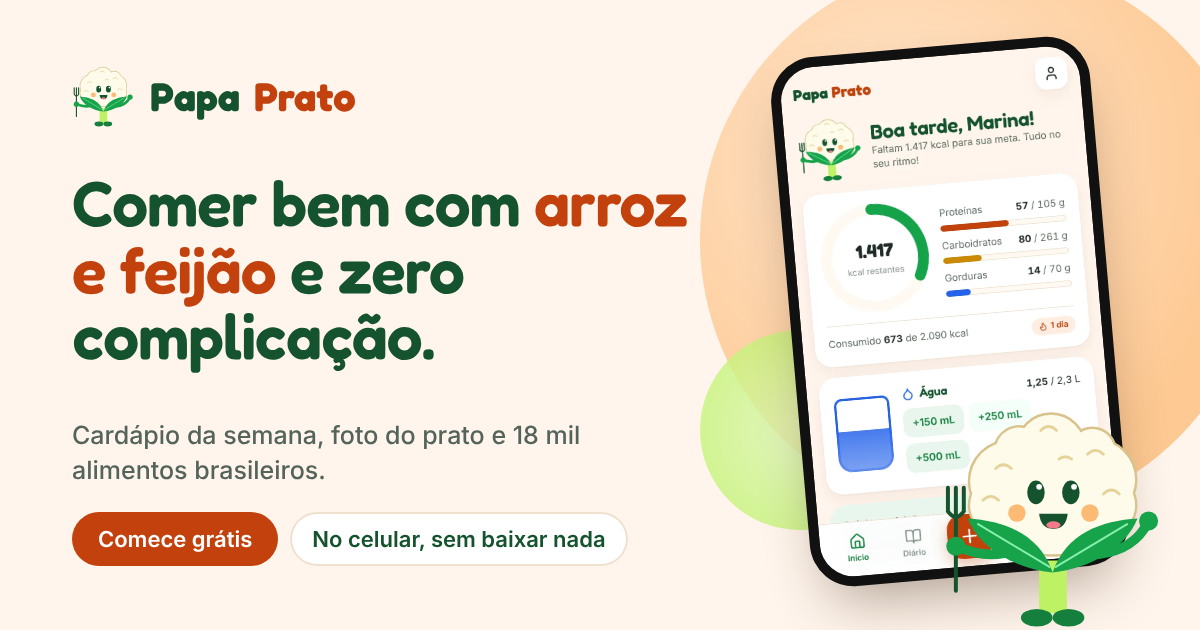
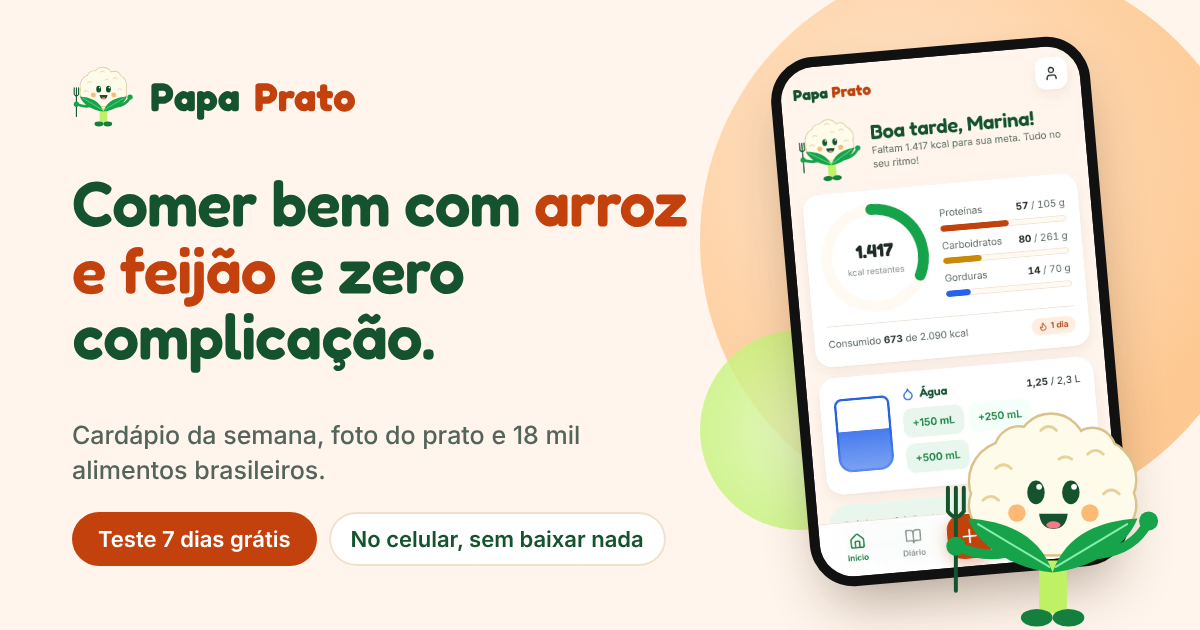
Webhook do Asaas, planos com preço editável e site sem plano grátis
- api/asaas-webhook: confere o token do Asaas e grava cada evento no banco (sem duplicar)
- Tabela planos (mensal, trimestral, anual) com histórico; só admin altera
- Painel: nova aba "Planos e preços" com edição, teste grátis e restauração de versões
- Site: preços lidos do banco, plano grátis removido, teste de 7 dias; banner refeito

Claude-Session: https://claude.ai/code/session_016xu6QakBDmg5KH1jUNaet3

Changed region(s): [[0.0617, 0.8143, 0.555, 0.9048]]

diff --git a/index.html b/index.html
@@ -4,20 +4,20 @@
 <meta charset="utf-8" />
 <meta name="viewport" content="width=device-width, initial-scale=1, viewport-fit=cover" />
 <title>Papa Prato · Comer bem com comida de verdade</title>
-<meta name="description" content="Cardápio da semana com a comida que você ama, registro por busca, foto ou código de barras e um mascote que comemora com você. Grátis, direto no celular." />
+<meta name="description" content="Cardápio da semana com a comida que você ama, registro por busca, foto ou código de barras e um mascote que comemora com você. Teste 7 dias grátis, direto no celular." />
 <meta property="og:type" content="website" />
 <meta property="og:locale" content="pt_BR" />
 <meta property="og:site_name" content="Papa Prato" />
 <meta property="og:url" content="https://papa-prato.vercel.app/" />
 <meta property="og:title" content="Papa Prato · Comer bem com comida de verdade" />
-<meta property="og:description" content="Cardápio da semana com a comida que você ama, registro por foto ou código de barras e 18 mil alimentos brasileiros. Grátis, direto no celular." />
+<meta property="og:description" content="Cardápio da semana com a comida que você ama, registro por foto ou código de barras e 18 mil alimentos brasileiros. Teste 7 dias grátis, direto no celular." />
 <meta property="og:image" content="https://papa-prato.vercel.app/og.png" />
 <meta property="og:image:width" content="1200" />
 <meta property="og:image:height" content="630" />
 <meta property="og:image:alt" content="Papa Prato: comer bem com arroz e feijão e zero complicação" />
 <meta name="twitter:card" content="summary_large_image" />
 <meta name="twitter:title" content="Papa Prato · Comer bem com comida de verdade" />
-<meta name="twitter:description" content="Cardápio da semana, foto do prato e 18 mil alimentos brasileiros. Grátis." />
+<meta name="twitter:description" content="Cardápio da semana, foto do prato e 18 mil alimentos brasileiros. Teste 7 dias grátis." />
 <meta name="twitter:image" content="https://papa-prato.vercel.app/og.png" />
 <link rel="canonical" href="https://papa-prato.vercel.app/" />
 <link rel="icon" href="/favicon.ico" sizes="48x48" />
@@ -270,6 +270,15 @@ body::before { content: ""; position: fixed; inset: 0 0 auto; height: env(safe-a
 .plano li { display: flex; gap: 10px; }
 .plano.gratis li::before { content: '✓'; color: var(--broto); font-weight: 700; }
 .plano.plus li::before { content: '✦'; color: var(--barro); }
+.opcoes { display: grid; gap: 10px; }
+.opcao { display: grid; grid-template-columns: 1fr auto; align-items: center; gap: 2px 12px; background: #fff; border-radius: 20px; padding: 14px 18px; box-shadow: inset 0 0 0 2px var(--linha); }
+.opcao.destaque { box-shadow: inset 0 0 0 2px var(--barro); }
+.opcao b { font: 600 19px/1.2 var(--f-titulo); color: var(--horta); display: flex; align-items: center; gap: 8px; flex-wrap: wrap; }
+.opcao .valor { font: 600 24px/1 var(--f-titulo); color: var(--horta); text-align: right; }
+.opcao small { color: var(--tinta-2); font-size: 14px; }
+.opcao small.dir { text-align: right; }
+.opcao .selo { font-size: 10px; padding: 5px 8px; white-space: nowrap; }
+@media (max-width: 560px) { .opcao { padding: 14px 16px; } .opcao small { grid-column: 1 / -1; } .opcao small.dir { order: 3; text-align: left; color: var(--barro); font-weight: 600; } .opcao small:not(.dir) { order: 4; } }
 .selo { font: 600 12px/1 var(--f-texto); letter-spacing: .08em; text-transform: uppercase; padding: 7px 11px; border-radius: 999px; background: var(--barro); color: #fff; }
 @media (max-width: 860px) { .planos .grade { grid-template-columns: 1fr; } }
 
@@ -364,7 +373,7 @@ footer a { color: var(--broto); }
     <nav class="menu" aria-label="Seções">
       <a href="#recursos">Recursos</a><a href="#papa">O mascote</a><a href="#como">Como funciona</a><a href="#planos">Planos</a><a href="#duvidas">Dúvidas</a>
     </nav>
-    <a class="btn" href="/app/">Começar grátis</a>
+    <a class="btn" href="/app/">Testar grátis</a>
   </div>
 </header>
 
@@ -376,10 +385,10 @@ footer a { color: var(--broto); }
         <h1 class="entra" style="--atraso:.08s">Comer bem com <em>arroz e feijão<svg viewBox="0 0 300 20" preserveAspectRatio="none" aria-hidden="true"><path d="M4 14C60 4 140 2 296 10" stroke="#FDBA74" stroke-width="9" stroke-linecap="round" fill="none"/></svg></em> e zero complicação.</h1>
         <p class="sub entra" style="--atraso:.16s">O Papa Prato monta o seu cardápio com a comida que você já ama, registra cada refeição em segundos e comemora cada passo com você. Sem dieta de revista e sem culpa.</p>
         <div class="acoes entra" style="--atraso:.24s">
-          <a class="btn" href="/app/">Montar meu cardápio grátis <svg width="20" height="20" viewBox="0 0 20 20" aria-hidden="true"><path d="M4 10h11m-4-5 5 5-5 5" stroke="currentColor" stroke-width="2.2" fill="none" stroke-linecap="round" stroke-linejoin="round"/></svg></a>
+          <a class="btn" href="/app/">Montar meu cardápio <svg width="20" height="20" viewBox="0 0 20 20" aria-hidden="true"><path d="M4 10h11m-4-5 5 5-5 5" stroke="currentColor" stroke-width="2.2" fill="none" stroke-linecap="round" stroke-linejoin="round"/></svg></a>
           <a class="btn claro" href="#recursos">Ver o app por dentro</a>
         </div>
-        <p class="nota entra" style="--atraso:.32s"><span>Grátis para começar</span><span>Sem cartão</span><span>Direto no celular</span></p>
+        <p class="nota entra" style="--atraso:.32s"><span>7 dias grátis</span><span>Cancele quando quiser</span><span>Direto no celular</span></p>
       </div>
       <div class="palco" id="palco" aria-hidden="true">
         <div class="bolha a"></div><div class="bolha b"></div>
@@ -549,23 +558,24 @@ footer a { color: var(--broto); }
 
   <section class="planos" id="planos">
     <div class="cont">
-      <div class="secao-titulo"><p class="olho revela">Planos</p><h2 class="revela">Comece hoje, sem pagar nada.</h2></div>
+      <div class="secao-titulo"><p class="olho revela">Planos</p><h2 class="revela">Tudo incluído. Você só escolhe o prazo.</h2></div>
       <div class="grade">
         <div class="plano gratis revela">
-          <h3>Papa Prato Grátis <span class="selo">Disponível</span></h3>
-          <p class="preco">R$ 0 <small>para sempre</small></p>
+          <h3>Papa Prato completo <span class="selo" id="selo-teste">7 dias grátis</span></h3>
+          <p style="opacity:.85">Qualquer plano libera o app inteiro, sem recurso escondido.</p>
           <ul>
-            <li>Cardápio da semana personalizado</li><li>Busca em 18 mil alimentos brasileiros</li><li>Foto do prato com IA e código de barras</li><li>Lista de compras automática</li><li>Conquistas, água e diário completo</li><li>Sincronização entre aparelhos</li>
+            <li>Cardápio da semana personalizado</li><li>Busca em 18 mil alimentos brasileiros</li><li>Foto do prato com IA e código de barras</li><li>Lista de compras automática</li><li>Conquistas, água e diário completo</li><li>Sincronização entre aparelhos</li><li>Novidades chegam para você sem custo extra</li>
           </ul>
-          <a class="btn verde" href="/app/" style="align-self:flex-start;margin-top:8px">Criar minha conta grátis</a>
         </div>
         <div class="plano plus revela" style="--atraso:.1s">
-          <h3>Papa Prato Plus <span class="selo" style="background:var(--horta)">Em breve</span></h3>
-          <p style="color:var(--tinta-2)">Para quem quer ir além, com acompanhamento de perto.</p>
-          <ul>
-            <li>Acompanhamento com nutricionista</li><li>Conversa com o Papa por IA, a qualquer hora</li><li>Programas temáticos e cardápios especiais</li><li>Relatórios de evolução</li>
-          </ul>
-          <p style="font-size:14px;color:var(--tinta-2);margin-top:auto">Crie sua conta grátis e você fica sabendo primeiro quando o Plus chegar.</p>
+          <h3>Escolha seu plano</h3>
+          <div class="opcoes" id="opcoes-plus">
+            <div class="opcao"><b>Mensal</b><span class="valor">R$&nbsp;24,90</span><small>Flexível: cancele quando quiser.</small><small class="dir">por mês</small></div>
+            <div class="opcao"><b>Trimestral</b><span class="valor">R$&nbsp;64,90</span><small>Três meses para criar o hábito.</small><small class="dir">R$&nbsp;21,63/mês · 13% off</small></div>
+            <div class="opcao destaque"><b>Anual <span class="selo">Mais vantajoso</span></b><span class="valor">R$&nbsp;199,90</span><small>O melhor preço: menos de R$ 17 por mês.</small><small class="dir">R$&nbsp;16,66/mês · 33% off</small></div>
+          </div>
+          <a class="btn" href="/app/" style="align-self:flex-start" id="cta-teste">Testar 7 dias grátis</a>
+          <p style="font-size:14px;color:var(--tinta-2);margin-top:auto" id="teste-plus">Teste por 7 dias sem pagar nada. Se não gostar, cancele antes e nada é cobrado.</p>
         </div>
       </div>
     </div>
@@ -575,7 +585,7 @@ footer a { color: var(--broto); }
     <div class="cont grade">
       <div><p class="olho revela">Dúvidas</p><h2 class="revela" style="margin-top:16px;font-size:clamp(34px,4vw,50px)">Perguntas que todo mundo faz.</h2></div>
       <div class="revela">
-        <details><summary>É grátis mesmo?</summary><div class="resp">Sim. Cardápio, busca, foto do prato, código de barras, lista de compras e conquistas estão no plano grátis. Não pedimos cartão.</div></details>
+        <details><summary>Quanto custa?</summary><div class="resp">A partir de <span id="faq-preco">R$ 24,90</span> por mês, ou menos no trimestral e no anual. Todos os planos incluem o app inteiro, e você testa 7 dias grátis antes de pagar. Dá para pagar com Pix, cartão ou boleto e cancelar quando quiser.</div></details>
         <details><summary>Preciso baixar alguma coisa?</summary><div class="resp">Não. O Papa Prato abre no navegador do celular. Se quiser, toque em "Adicionar à tela de início" e ele vira um app como os outros, que funciona até sem internet.</div></details>
         <details><summary>Substitui o nutricionista?</summary><div class="resp">Não, e nem quer. As metas e os cardápios são estimativas educativas, calculadas com métodos reconhecidos. Para um plano individual, procure um(a) nutricionista; o Papa Prato é um ótimo parceiro para o dia a dia entre as consultas.</div></details>
         <details><summary>A foto do prato acerta tudo?</summary><div class="resp">Ela acerta muito, mas pode errar. Por isso você sempre confere os alimentos e as quantidades antes de salvar. E as calorias vêm das tabelas oficiais (TACO e TBCA), não da IA.</div></details>
@@ -590,8 +600,8 @@ footer a { color: var(--broto); }
       <div class="caixa revela">
         <div>
           <h2>Seu próximo prato já pode ser mais leve.</h2>
-          <p>Em 2 minutos o Papa conhece seus gostos e monta a sua semana. É grátis, é brasileiro e é do seu jeito.</p>
-          <a class="btn" href="/app/">Começar agora, é grátis <svg width="20" height="20" viewBox="0 0 20 20" aria-hidden="true"><path d="M4 10h11m-4-5 5 5-5 5" stroke="currentColor" stroke-width="2.2" fill="none" stroke-linecap="round" stroke-linejoin="round"/></svg></a>
+          <p>Em 2 minutos o Papa conhece seus gostos e monta a sua semana. Teste 7 dias grátis: é brasileiro e é do seu jeito.</p>
+          <a class="btn" href="/app/">Começar meu teste grátis <svg width="20" height="20" viewBox="0 0 20 20" aria-hidden="true"><path d="M4 10h11m-4-5 5 5-5 5" stroke="currentColor" stroke-width="2.2" fill="none" stroke-linecap="round" stroke-linejoin="round"/></svg></a>
         </div>
         <svg class="mascote-final" viewBox="0 0 290 290" aria-hidden="true"><use href="#papa"/></svg>
       </div>
@@ -695,6 +705,31 @@ footer a { color: var(--broto); }
 
   // Funciona offline e pode ser instalado como app
   if ('serviceWorker' in navigator && location.protocol === 'https:') navigator.serviceWorker.register('/sw.js').catch(function () {})
+
+  // Preços do Plus vêm do banco (a equipe muda no painel); sem internet, fica o texto já escrito acima.
+  var caixaPlanos = document.getElementById('opcoes-plus')
+  if (caixaPlanos && window.fetch) {
+    var CHAVE = 'sb_publishable_9JQqL2n-cCBqjDWHIhyuIw_xHHcmDmv'
+    fetch('https://crbydlwmtyxvzhiowpmb.supabase.co/rest/v1/planos?select=nome,preco,meses,teste_dias,descricao,destaque&ativo=eq.true&order=ordem', { headers: { apikey: CHAVE } })
+      .then(function (r) { return r.ok ? r.json() : null })
+      .then(function (lista) {
+        if (!lista || !lista.length) return
+        var brl = function (v) { return 'R$\u00a0' + Number(v).toFixed(2).replace('.', ',') }
+        var esc = function (t) { var d = document.createElement('div'); d.textContent = t; return d.innerHTML }
+        var mensal = lista.filter(function (p) { return p.meses === 1 })[0]
+        caixaPlanos.innerHTML = lista.map(function (p) {
+          var porMes = p.preco / p.meses, desc = mensal && p.meses > 1 ? Math.round((1 - porMes / mensal.preco) * 100) : 0
+          var dir = p.meses === 1 ? 'por mês' : brl(porMes) + '/mês' + (desc > 0 ? ' · ' + desc + '% off' : '')
+          return '<div class="opcao' + (p.destaque ? ' destaque' : '') + '"><b>' + esc(p.nome) + (p.destaque ? ' <span class="selo">Mais vantajoso</span>' : '') + '</b><span class="valor">' + brl(p.preco) + '</span><small>' + esc(p.descricao) + '</small><small class="dir">' + dir + '</small></div>'
+        }).join('')
+        var dias = Math.max.apply(null, lista.map(function (p) { return p.teste_dias }))
+        var m1 = document.getElementById('faq-preco')
+        if (m1 && mensal) m1.textContent = brl(mensal.preco).replace('\u00a0', ' ')
+        var t = function (id, txt) { var e = document.getElementById(id); if (e) e.textContent = txt }
+        if (dias > 0) { t('selo-teste', dias + ' dias grátis'); t('cta-teste', 'Testar ' + dias + ' dias grátis'); t('teste-plus', 'Teste por ' + dias + ' dias sem pagar nada. Se não gostar, cancele antes e nada é cobrado.') }
+        else { t('selo-teste', 'Tudo incluído'); t('cta-teste', 'Assinar o Papa Prato'); t('teste-plus', 'Cancele quando quiser, direto no app.') }
+      }).catch(function () {})
+  }
 
   // Só uma dúvida aberta por vez
   var ds = document.querySelectorAll('details')

diff --git a/src/admin/Planos.tsx b/src/admin/Planos.tsx
@@ -1,0 +1,96 @@
+import { useEffect, useState } from 'react'
+import { History, RefreshCw, Save } from 'lucide-react'
+import { avisar } from '../components/ui'
+import { supabase } from '../lib/supabase'
+import { usePapel } from '../lib/equipe'
+import { Cabecalho } from './Modulos'
+
+// Planos do Papa Prato Plus. O preço vale para novas assinaturas; quem já assina mantém o valor contratado no Asaas.
+// Só administradores mudam (o banco garante isso); o resto da equipe vê em modo leitura.
+
+export type Plano = { id: string; nome: string; preco: number; meses: number; teste_dias: number; descricao: string; destaque: boolean; ativo: boolean; ordem: number; versao?: number; atualizado_em?: string }
+type Versao = { id: number; versao: number; dados: Plano; em: string }
+
+export const reais = (v: number) => v.toLocaleString('pt-BR', { style: 'currency', currency: 'BRL' })
+const lerPreco = (t: string) => Number(t.replace(/[^\d,.]/g, '').replace(/\.(?=\d{3}\b)/g, '').replace(',', '.'))
+const quando = (d?: string) => d ? new Date(d).toLocaleString('pt-BR', { dateStyle: 'short', timeStyle: 'short' }) : '—'
+
+export function Planos() {
+  const { papel } = usePapel()
+  const admin = papel === 'admin'
+  const [planos, setPlanos] = useState<Plano[] | null>(null)
+  const [erro, setErro] = useState('')
+  const carregar = () => supabase!.from('planos').select('*').order('ordem').then(({ data, error }) => { setErro(error?.message ?? ''); setPlanos((data as Plano[]) ?? []) })
+  useEffect(() => { carregar() }, [])
+  const mensal = planos?.find(p => p.meses === 1 && p.ativo)?.preco
+
+  return (
+    <>
+      <Cabecalho titulo="Planos e preços" texto="Preços do Papa Prato Plus que aparecem no site e no app. Uma mudança vale para quem assinar depois dela; quem já assina continua com o valor contratado." acoes={<button className="btn ghost sm" onClick={carregar}><RefreshCw size={16} /> Atualizar</button>} />
+      {!admin && papel && <div className="card peach small">Só administradores podem mudar preços. Você está vendo em modo leitura.</div>}
+      {erro && <div className="card peach small">Não foi possível carregar: {erro}</div>}
+      <div className="grid-planos" style={{ display: 'grid', gap: 16, gridTemplateColumns: 'repeat(auto-fit, minmax(280px, 1fr))', alignItems: 'start' }}>
+        {planos?.map(p => <FormPlano key={p.id + (p.versao ?? 0)} inicial={p} mensal={mensal} podeEditar={admin} onSalvo={carregar} />)}
+      </div>
+    </>
+  )
+}
+
+function FormPlano({ inicial, mensal, podeEditar, onSalvo }: { inicial: Plano; mensal?: number; podeEditar: boolean; onSalvo: () => void }) {
+  const [p, setP] = useState(inicial)
+  const [preco, setPreco] = useState(inicial.preco.toFixed(2).replace('.', ','))
+  const [salvando, setSalvando] = useState(false)
+  const [historico, setHistorico] = useState(false)
+  const set = (x: Partial<Plano>) => setP(v => ({ ...v, ...x }))
+  const valor = lerPreco(preco)
+  const valido = valor > 0 && valor < 10000 && p.nome.trim().length >= 2
+  const porMes = valido ? valor / p.meses : 0
+  const economia = mensal && p.meses > 1 && valido ? Math.round((1 - porMes / mensal) * 100) : 0
+  const mudou = valor !== inicial.preco || (['nome', 'meses', 'teste_dias', 'descricao', 'destaque', 'ativo'] as const).some(k => p[k] !== inicial[k])
+
+  const salvar = async () => {
+    setSalvando(true)
+    const { error } = await supabase!.from('planos').update({ nome: p.nome.trim(), preco: Math.round(valor * 100) / 100, meses: p.meses, teste_dias: p.teste_dias, descricao: p.descricao.trim(), destaque: p.destaque, ativo: p.ativo }).eq('id', p.id)
+    setSalvando(false)
+    avisar(error ? error.message : `Plano ${p.nome} salvo.`)
+    if (!error) onSalvo()
+  }
+  const dis = !podeEditar
+
+  return (
+    <div className="card stack" style={{ gap: 12, boxShadow: p.destaque ? 'inset 0 0 0 2px var(--orange)' : undefined, opacity: p.ativo ? 1 : .7 }}>
+      <div className="row between"><h3>{p.nome}</h3>{p.destaque && <span className="tag">destaque</span>}{!p.ativo && <span className="tag gray">oculto</span>}</div>
+      <div><b className="num" style={{ fontSize: 28 }}>{valido ? reais(valor) : '—'}</b> <span className="small muted">a cada {p.meses === 1 ? 'mês' : `${p.meses} meses`}</span>
+        {p.meses > 1 && valido && <div className="small muted">{reais(porMes)} por mês{economia > 0 ? ` · ${economia}% mais barato que o mensal` : ''}</div>}
+      </div>
+      <div className="field"><label htmlFor={`pl-nome-${p.id}`}>Nome</label><input id={`pl-nome-${p.id}`} className="input" value={p.nome} disabled={dis} maxLength={40} onChange={e => set({ nome: e.target.value })} /></div>
+      <div className="row" style={{ gap: 10 }}>
+        <div className="field grow"><label htmlFor={`pl-preco-${p.id}`}>Preço (R$)</label><input id={`pl-preco-${p.id}`} className="input num" inputMode="decimal" value={preco} disabled={dis} onChange={e => setPreco(e.target.value)} aria-invalid={!valido} /></div>
+        <div className="field" style={{ width: 120 }}><label htmlFor={`pl-meses-${p.id}`}>Cobrança</label><select id={`pl-meses-${p.id}`} className="input" value={p.meses} disabled={dis} onChange={e => set({ meses: Number(e.target.value) })}>{[1, 3, 6, 12].map(m => <option key={m} value={m}>{m === 1 ? 'Mensal' : m === 3 ? 'Trimestral' : m === 6 ? 'Semestral' : 'Anual'}</option>)}</select></div>
+      </div>
+      <div className="field"><label htmlFor={`pl-teste-${p.id}`}>Dias grátis para testar</label><input id={`pl-teste-${p.id}`} className="input num" style={{ width: 100 }} inputMode="numeric" value={p.teste_dias} disabled={dis} onChange={e => set({ teste_dias: Math.min(30, Number(e.target.value.replace(/\D/g, '')) || 0) })} /></div>
+      <div className="field"><label htmlFor={`pl-desc-${p.id}`}>Frase curta</label><input id={`pl-desc-${p.id}`} className="input" value={p.descricao} maxLength={140} disabled={dis} onChange={e => set({ descricao: e.target.value })} /></div>
+      <label className="row small" style={{ gap: 6 }}><input type="checkbox" checked={p.destaque} disabled={dis} onChange={e => set({ destaque: e.target.checked })} /> Destacar como "mais vantajoso"</label>
+      <label className="row small" style={{ gap: 6 }}><input type="checkbox" checked={p.ativo} disabled={dis} onChange={e => set({ ativo: e.target.checked })} /> Mostrar no site e no app</label>
+      {podeEditar && <button className="btn sm" disabled={!mudou || !valido || salvando} onClick={salvar}><Save size={16} /> {salvando ? 'Salvando…' : 'Salvar'}</button>}
+      <div className="tiny">Versão {inicial.versao ?? 1} · alterado em {quando(inicial.atualizado_em)}</div>
+      <button className="btn ghost sm" type="button" onClick={() => setHistorico(h => !h)}><History size={16} /> {historico ? 'Esconder histórico' : 'Histórico de preços'}</button>
+      {historico && <HistoricoPlano id={p.id} podeRestaurar={podeEditar} onRestaurado={onSalvo} />}
+    </div>
+  )
+}
+
+function HistoricoPlano({ id, podeRestaurar, onRestaurado }: { id: string; podeRestaurar: boolean; onRestaurado: () => void }) {
+  const [v, setV] = useState<Versao[] | null>(null)
+  useEffect(() => { supabase!.from('versoes_conteudo').select('id, versao, dados, em').eq('tabela', 'planos').eq('registro_id', id).order('versao', { ascending: false }).limit(20).then(({ data }) => setV((data as Versao[]) ?? [])) }, [id])
+  if (!v) return null
+  if (!v.length) return <p className="tiny">Sem mudanças anteriores.</p>
+  return (
+    <div className="list">{v.map(x => (
+      <div key={x.id} className="item" style={{ padding: '8px 0' }}>
+        <span className="grow small">v{x.versao} · {reais(Number(x.dados.preco))} {x.dados.ativo ? '' : '(oculto)'}<div className="tiny">até {quando(x.em)}</div></span>
+        {podeRestaurar && <button type="button" className="btn ghost sm" onClick={async () => { const { error } = await supabase!.rpc('restaurar_versao', { versao_id: x.id }); avisar(error ? error.message : `Versão ${x.versao} restaurada.`); if (!error) onRestaurado() }}>Restaurar</button>}
+      </div>
+    ))}</div>
+  )
+}

diff --git a/src/admin/Admin.tsx b/src/admin/Admin.tsx
@@ -1,10 +1,11 @@
 import { useEffect, useMemo, useState } from 'react'
-import { Activity, ArrowLeft, BookOpen, Bot, Database, LifeBuoy, LogOut, Shield, UserCog, Users, LayoutDashboard, ListChecks, MessageCircle, Plus, Rocket, Trash2, UtensilsCrossed } from 'lucide-react'
+import { Activity, ArrowLeft, BookOpen, Bot, Database, LifeBuoy, LogOut, Shield, UserCog, Users, LayoutDashboard, ListChecks, BadgeDollarSign, MessageCircle, Plus, Rocket, Trash2, UtensilsCrossed } from 'lucide-react'
 import { Folha, avisar, Avisos, fmt, useAlimentos } from '../components/ui'
 import { FormularioLink } from '../components/Conta'
 import { Assinatura } from '../components/Assinatura'
 import { Equipe, IA, PainelServidor, Privacidade, Saude, SuporteEquipe, Usuarios } from './Modulos'
 import { EditorCardapios, EditorReceitas } from './Editores'
+import { Planos } from './Planos'
 import { carregarAlimentosEquipe, excluirAlimentoEquipe, publicarConteudo, salvarAlimentoEquipe, usePapel } from '../lib/equipe'
 import { supabase, traduzirErro, useSessao } from '../lib/supabase'
 import { Mascot } from '../components/Mascot'
@@ -14,7 +15,7 @@ import { buscar, NOME_FONTE, nutrientesDe, somar, type Fonte } from '../lib/alim
 import { CONQUISTAS, desbloqueadas } from '../lib/conquistas'
 import { DICAS_PADRAO, atualizar, obterEstado, uid, useEstado, type AlimentoPersonalizado } from '../lib/store'
 
-type Aba = 'painel' | 'usuarios' | 'suporte' | 'alimentos' | 'cardapios' | 'receitas' | 'conteudo' | 'ia' | 'privacidade' | 'saude' | 'equipe' | 'roadmap'
+type Aba = 'painel' | 'usuarios' | 'suporte' | 'alimentos' | 'cardapios' | 'receitas' | 'conteudo' | 'planos' | 'ia' | 'privacidade' | 'saude' | 'equipe' | 'roadmap'
 const ABAS: { id: Aba; nome: string; icone: typeof Database; servidor?: boolean }[] = [
   { id: 'painel', nome: 'Painel', icone: LayoutDashboard },
   { id: 'usuarios', nome: 'Usuários', icone: Users, servidor: true },
@@ -23,6 +24,7 @@ const ABAS: { id: Aba; nome: string; icone: typeof Database; servidor?: boolean 
   { id: 'cardapios', nome: 'Cardápios', icone: UtensilsCrossed },
   { id: 'receitas', nome: 'Receitas', icone: BookOpen, servidor: true },
   { id: 'conteudo', nome: 'Conteúdo do mascote', icone: MessageCircle },
+  { id: 'planos', nome: 'Planos e preços', icone: BadgeDollarSign, servidor: true },
   { id: 'ia', nome: 'Inteligência artificial', icone: Bot, servidor: true },
   { id: 'privacidade', nome: 'Privacidade', icone: Shield, servidor: true },
   { id: 'saude', nome: 'Saúde do sistema', icone: Activity, servidor: true },
@@ -115,6 +117,7 @@ function PainelAdmin({ modo }: { modo: 'local' | 'servidor' }) {
         {aba === 'painel' && (modo === 'servidor' ? <PainelServidor /> : <Painel />)}
         {aba === 'usuarios' && <Usuarios />}
         {aba === 'suporte' && <SuporteEquipe />}
+        {aba === 'planos' && <Planos />}
         {aba === 'ia' && <IA />}
         {aba === 'privacidade' && <Privacidade />}
         {aba === 'saude' && <Saude />}
@@ -319,7 +322,7 @@ function Conteudo() {
 
 function Roadmap() {
   const itens = [
-    { id: 'A07', nome: 'Assinaturas', o: 'Planos pagos (Plus) com o Asaas: Pix, cartão e boleto recorrente, cupons e reembolsos. Falta definir preços e a chave do Asaas.' },
+    { id: 'A07', nome: 'Assinaturas', o: 'Planos pagos (Plus) com o Asaas: Pix, cartão e boleto recorrente, cupons e reembolsos. Preços já editáveis em Planos e preços e webhook pronto; falta a chave da API do Asaas para gerar as cobranças.' },
     { id: 'A11', nome: 'Gamificação', o: 'Criar conquistas e campanhas pelo painel, com regras contra fraude.' },
     { id: 'A12', nome: 'Profissionais', o: 'Nutricionistas com CRN verificado acompanhando pacientes. Precisa de decisão de negócio.' },
     { id: 'T34', nome: 'Conversa com o Papa', o: 'Chat com a IA sobre alimentação, com histórico que a pessoa pode apagar. Candidato ao Plus.' },

diff --git a/api/asaas-webhook.ts b/api/asaas-webhook.ts
@@ -1,0 +1,39 @@
+// Função da Vercel: recebe os avisos do Asaas (cobranças e assinaturas) e guarda cada evento no banco.
+// Configuração no Asaas: Integrações → Webhooks, URL https://<site>/api/asaas-webhook,
+// "Token de autenticação" igual a ASAAS_WEBHOOK_TOKEN (variável da Vercel). O Asaas manda esse token
+// no cabeçalho asaas-access-token; sem ele (ou com outro), a função recusa.
+// O banco confere o token de novo (pelo hash) e ignora eventos repetidos, então reenvios são seguros.
+import { timingSafeEqual } from 'node:crypto'
+
+const iguais = (a: string, b: string) => {
+  const x = Buffer.from(a), y = Buffer.from(b)
+  return x.length === y.length && timingSafeEqual(x, y)
+}
+const json = (corpo: unknown, status = 200) => Response.json(corpo, { status })
+
+export async function POST(req: Request) {
+  const esperado = process.env.ASAAS_WEBHOOK_TOKEN
+  const url = process.env.SUPABASE_URL, chave = process.env.SUPABASE_PUBLISHABLE_KEY
+  if (!esperado || !url || !chave) return json({ erro: 'webhook não configurado' }, 503)
+
+  const token = req.headers.get('asaas-access-token') ?? ''
+  if (!iguais(token, esperado)) return json({ erro: 'token inválido' }, 401)
+
+  let evento: unknown
+  try { evento = await req.json() } catch { return json({ erro: 'corpo inválido' }, 400) }
+  if (!evento || typeof evento !== 'object' || Array.isArray(evento)) return json({ erro: 'corpo inválido' }, 400)
+
+  const r = await fetch(`${url}/rest/v1/rpc/registrar_evento_asaas`, {
+    method: 'POST',
+    headers: { apikey: chave, authorization: `Bearer ${chave}`, 'content-type': 'application/json' },
+    body: JSON.stringify({ token, evento }),
+  }).catch(() => null)
+  // Se o banco falhar, respondemos erro: o Asaas tenta de novo mais tarde.
+  if (!r?.ok) {
+    console.error('asaas-webhook: falha ao gravar', r?.status, await r?.text().catch(() => ''))
+    return json({ erro: 'falha ao gravar' }, 502)
+  }
+  return json({ recebido: true })
+}
+
+export function GET() { return json({ ok: true, info: 'Webhook do Asaas do Papa Prato. Use POST.' }) }

diff --git a/app/index.html b/app/index.html
@@ -32,7 +32,7 @@
     <link rel="apple-touch-startup-image" href="/splash/splash-1488x2266.png" media="(device-width: 744px) and (device-height: 1133px) and (-webkit-device-pixel-ratio: 2) and (orientation: portrait)" />
     <link rel="apple-touch-startup-image" href="/splash/splash-1536x2048.png" media="(device-width: 768px) and (device-height: 1024px) and (-webkit-device-pixel-ratio: 2) and (orientation: portrait)" />
     <meta property="og:title" content="Papa Prato" />
-    <meta property="og:description" content="Cardápio da semana, foto do prato e 18 mil alimentos brasileiros. Grátis." />
+    <meta property="og:description" content="Cardápio da semana, foto do prato e 18 mil alimentos brasileiros. Teste 7 dias grátis." />
     <meta property="og:image" content="https://papa-prato.vercel.app/og.png" />
     <meta name="twitter:card" content="summary_large_image" />
     <link rel="preconnect" href="https://fonts.googleapis.com" />

diff --git a/src/components/Conta.tsx b/src/components/Conta.tsx
@@ -50,7 +50,7 @@ export function CartaoConta() {
   if (!sessao) return (
     <div className="card stack">
       <h3 className="row" style={{ gap: 8 }}><CloudOff size={18} /> Sua conta</h3>
-      <p className="small muted">Crie uma conta grátis para guardar seu diário na nuvem, usar em mais de um aparelho e liberar a foto do prato com IA.</p>
+      <p className="small muted">Crie sua conta para guardar seu diário na nuvem, usar em mais de um aparelho e liberar a foto do prato com IA.</p>
       <FormularioLink textoBotao="Criar conta ou entrar" />
     </div>
   )
